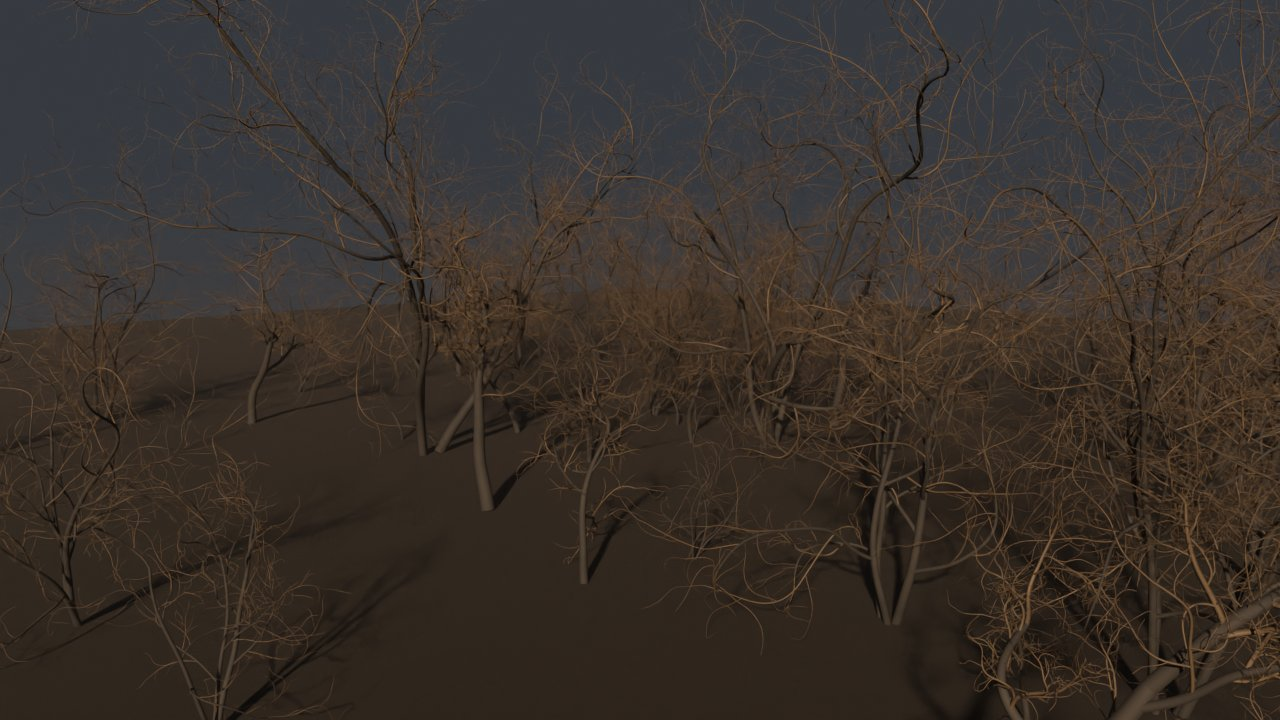
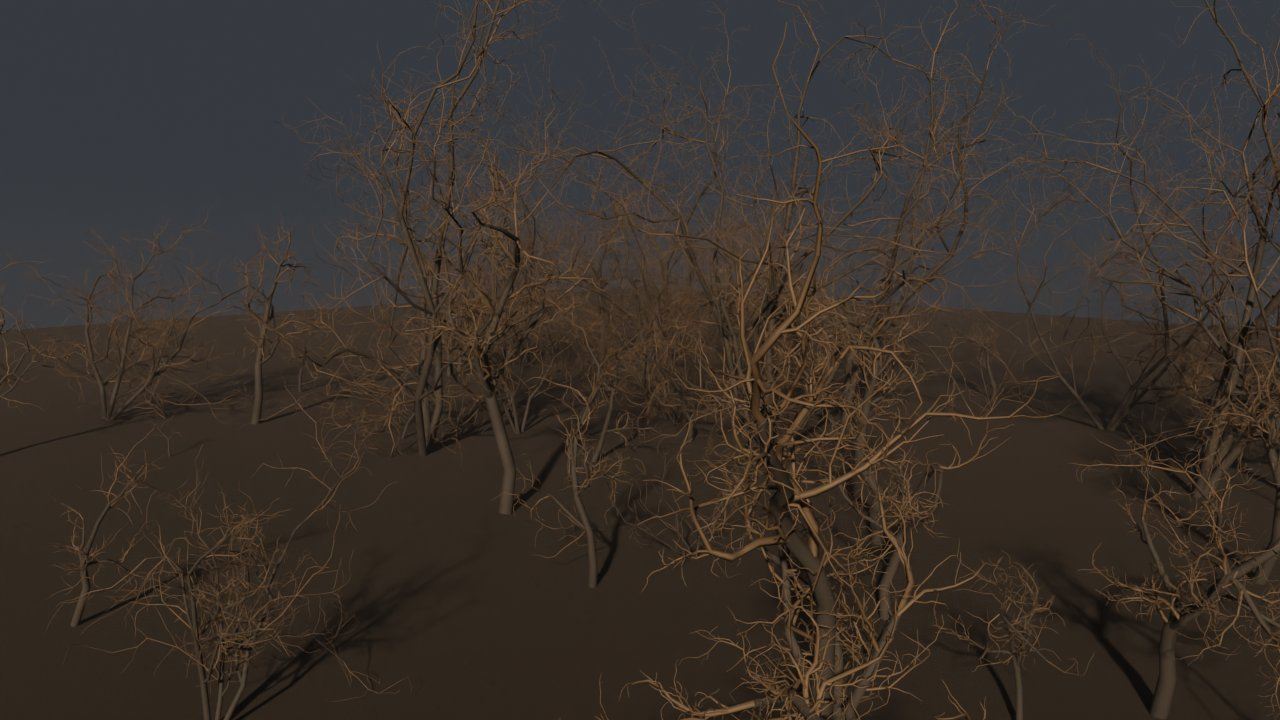
Make meandering branches angular and sharp
Reduce each meandering branch to a few straight internodes joined at
sharp nodes (POLY splines), nudging the nodes sideways to make the
bends crisp. Adds a straight-segment count setting; 0 restores
smooth NURBS branches.

Claude-Session: https://claude.ai/code/session_012pdpZvAs5thAiypyibftZ1

diff --git a/blender/thorn_forest.py b/blender/thorn_forest.py
@@ -18,7 +18,7 @@ Blender アドオン。
 bl_info = {
     "name": "Thorn Forest Generator (茨の森)",
     "author": "A_life",
-    "version": (2, 1, 0),
+    "version": (2, 2, 0),
     "blender": (3, 6, 0),
     "location": "View3D > Sidebar > 茨の森",
     "description": "大きさのばらつきを持ったリアルないばらの低木・小高木の群落を生成する",
@@ -61,6 +61,7 @@ SETTINGS = {
     "up_tendency": ("float", 0.35, 0.0, 3.0, "上向き", "枝が光を求めて上へ向かう強さ"),
     "wiggle": ("float", 1.0, 0.0, 3.0, "うねり", "枝がうねうねと曲がる強さ"),
     "wave_count": ("float", 3.0, 0.5, 12.0, "うねりの回数", "1 本の枝の中で曲がる回数の目安"),
+    "segment_count": ("int", 5, 0, 40, "直線区間の数", "1 本の枝を何本の直線でつなぐか。少ないほど角ばってシャープになる。0 でなめらかな曲線"),
     "crookedness": ("float", 0.9, 0.0, 3.0, "ジグザグ", "節ごとに枝が折れ曲がる強さ (いばらの小枝らしさ)"),
     "droop": ("float", 0.4, 0.0, 3.0, "枝垂れ", "細い枝が重さで垂れる強さ"),
     "step": ("float", 0.1, 0.02, 1.0, "解像度", "枝のサンプリング間隔の上限 (m)。小さいほど滑らかで重い"),
@@ -161,7 +162,29 @@ def grow_branch(rng, s, start, direction, length, depth, dmax, up):
             d.z = abs(d.z)
             d.normalize()
         pts.append(p.copy())
-    return pts
+    return straighten(rng, s, pts)
+
+
+def straighten(rng, s, pts):
+    """うねった点列を、節で鋭く折れ曲がる直線区間の連なりに間引く。"""
+    if s.segment_count <= 0:
+        return pts
+    n = len(pts) - 1
+    segs = max(2, min(n, round(s.segment_count * rng.uniform(0.7, 1.3))))
+    spacing = n / segs
+    idx = [0]
+    for k in range(1, segs):
+        j = int(round(k * spacing + rng.uniform(-0.3, 0.3) * spacing))
+        if idx[-1] < j < n:
+            idx.append(j)
+    idx.append(n)
+    out = [pts[j].copy() for j in idx]
+    # 節を横へずらして折れ角をはっきりさせる (根元は動かさない)
+    for k in range(1, len(out) - 1):
+        seg = (out[k + 1] - out[k - 1]).length * 0.5
+        out[k] += random_unit(rng) * (seg * 0.2 * s.crookedness)
+        out[k].z = max(out[k].z, 0.0)
+    return out
 
 
 def add_branch(rng, s, start, direction, length, r0, depth, dmax, t0, out):
@@ -237,7 +260,7 @@ def build_vines(s):
     vines = []
     for base, height in place_plants(rng, s):
         build_plant(rng, s, base, height, vines)
-    return [v for v in vines if len(v.points) >= 4]
+    return [v for v in vines if len(v.points) >= 2]
 
 
 def sample_along(rng, vine, density):
@@ -415,7 +438,7 @@ def make_mesh_object(col, name, mb, mat, smooth=True):
     return link_object(col, name, me, mat)
 
 
-def make_vine_curve(col, name, vines, mat, bevel_resolution=2, resolution_u=3):
+def make_vine_curve(col, name, vines, mat, bevel_resolution=2, resolution_u=3, sharp=False):
     cu = bpy.data.curves.new(name, "CURVE")
     cu.dimensions = "3D"
     cu.fill_mode = "FULL"
@@ -424,7 +447,8 @@ def make_vine_curve(col, name, vines, mat, bevel_resolution=2, resolution_u=3):
     cu.resolution_u = resolution_u
     cu.use_fill_caps = True
     for v in vines:
-        sp = cu.splines.new("NURBS")
+        # 角ばった枝は POLY (節で鋭く折れる)、なめらかな枝は NURBS
+        sp = cu.splines.new("POLY" if sharp else "NURBS")
         sp.points.add(len(v.points) - 1)
         co, radius = [], []
         for i, p in enumerate(v.points):
@@ -432,8 +456,9 @@ def make_vine_curve(col, name, vines, mat, bevel_resolution=2, resolution_u=3):
             radius.append(v.radius(i))
         sp.points.foreach_set("co", co)
         sp.points.foreach_set("radius", radius)
-        sp.order_u = 4
-        sp.use_endpoint_u = True
+        if not sharp:
+            sp.order_u = 4
+            sp.use_endpoint_u = True
         sp.use_smooth = True
     return link_object(col, name, cu, mat)
 
@@ -531,7 +556,7 @@ def generate(s):
     for name, group, mat, bevel_res, res_u in groups:
         if not group:
             continue
-        obj = make_vine_curve(col, name, group, mat, bevel_res, res_u)
+        obj = make_vine_curve(col, name, group, mat, bevel_res, res_u, sharp=s.segment_count > 0)
         if s.convert_to_mesh:
             obj = curve_to_mesh(obj)
         created.append(obj)
@@ -601,7 +626,7 @@ PANEL_LAYOUT = (
     ("大きさのばらつき", ("min_height", "max_height", "small_bias")),
     ("樹形", ("tree_ratio", "stems", "trunk_radius")),
     ("枝", ("branch_levels", "branch_count", "branch_angle", "length_ratio", "radius_ratio",
-           "up_tendency", "wiggle", "wave_count", "crookedness", "droop")),
+           "up_tendency", "wiggle", "wave_count", "segment_count", "crookedness", "droop")),
     ("トゲ", ("thorn_density", "thorn_size", "thorn_hook")),
     ("シーン", ("ground", "atmosphere", "fog_density", "convert_to_mesh", "clear_previous")),
 )

diff --git a/blender/README.md b/blender/README.md
@@ -25,14 +25,14 @@
 - 各株は **高木型** (1 本の幹の上に樹冠) か **株立ち型** (根元から何本もの幹) のどちらか
 - 枝は側枝を互生 (黄金角) で出し、先端は延長枝としてさらに伸びる。これを再帰的に繰り返す
 - 子の枝は分岐点での親の太さに比例して細くなり、根元側の側枝ほど長い
-- 枝は自分の長さに沿ってうねうねと蛇行し (うねりの強さと回数を調整可能)、節ごとに折れてジグザグになる。上へ向かう性質と、細い枝ほど強い重みによる垂れを持つ
+- 枝は自分の長さに沿ってうねうねと蛇行し (うねりの強さと回数を調整可能)、それを節で鋭く折れる数本の直線でつなぐ (直線区間の数を調整可能、0 でなめらかな曲線)。上へ向かう性質と、細い枝ほど強い重みによる垂れを持つ
 - 小さい株は枝分かれが自動で浅くなる (若い株らしく枝がまばらになる)
 
 ## 使い方
 
 ### ドラッグ&ドロップでインストール (Blender 4.2 以降)
 
-1. `thorn_forest-2.1.0.zip` を Blender のウィンドウにドラッグ&ドロップし、確認ダイアログで「OK」
+1. `thorn_forest-2.2.0.zip` を Blender のウィンドウにドラッグ&ドロップし、確認ダイアログで「OK」
 2. 3D ビューで `N` キー → サイドバーの「茨の森」タブ
 3. パラメータを調整して **茨の森を生成**。**シードを変えて再生成** で別のバリエーション
 
@@ -66,12 +66,12 @@ Python コンソールからは `build_forest(seed=3, plant_count=60)` のよう
 - **全体**: 範囲・株の数・間隔 (0 で樹冠が自由に重なる)
 - **大きさのばらつき**: 最小の高さ・最大の高さ・小さい株の多さ (1 で大小が均等、大きくすると小さい株が多く大きい株がまれになる)。最小と最大を同じにすれば大きさがそろう
 - **樹形**: 高木型の割合・株立ちの幹数・幹の太さ (株の大きさに応じて自動で変わる)
-- **枝**: 枝の階層・枝の数・分岐角・枝の長さ比・枝の太さ比・上向き・うねり・うねりの回数・ジグザグ・枝垂れ
+- **枝**: 枝の階層・枝の数・分岐角・枝の長さ比・枝の太さ比・上向き・うねり・うねりの回数・直線区間の数・ジグザグ (節の折れの強さ)・枝垂れ
 - **トゲ**: 1 m あたりの数・長さ・反り (0 でまっすぐ、プラスで根元側へ鉤状)
 - **シーン**: 地面・霞と日差し・メッシュ変換 (FBX/OBJ 等への書き出し用)
 
 ## 重さの目安
 
-デフォルト設定で小枝 約 5 万本、トゲ 約 47 万頂点 (生成 約 7 秒)。重い場合は
+デフォルト設定で小枝 約 4.6 万本、トゲ 約 45 万頂点 (生成 約 7 秒)。重い場合は
 「枝の階層」「枝の数」「株の数」「トゲ密度」を小さくするか、「解像度」を大きくしてください。
 カーブのままにしておくと、生成後でもカーブのプロパティ (ベベルの解像度など) で軽さを調整できます。
